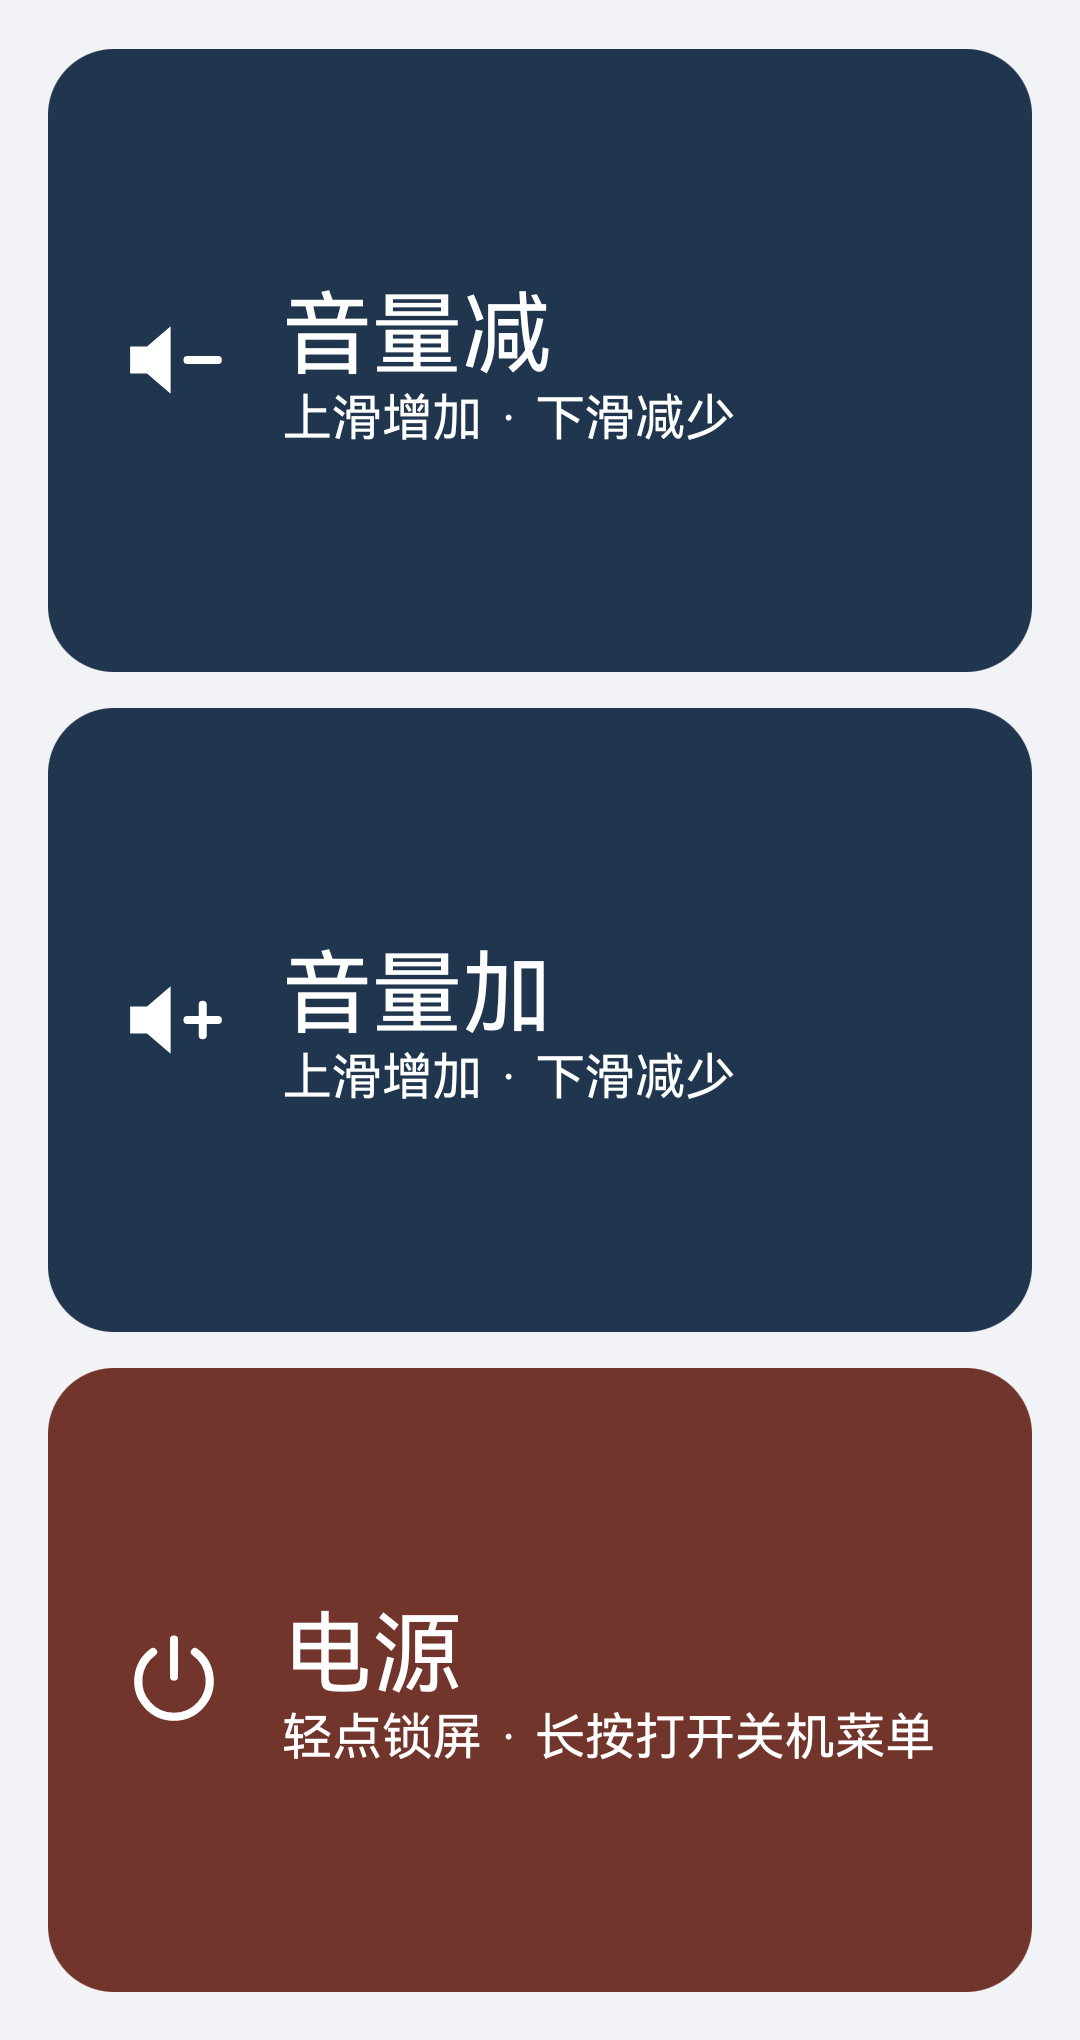
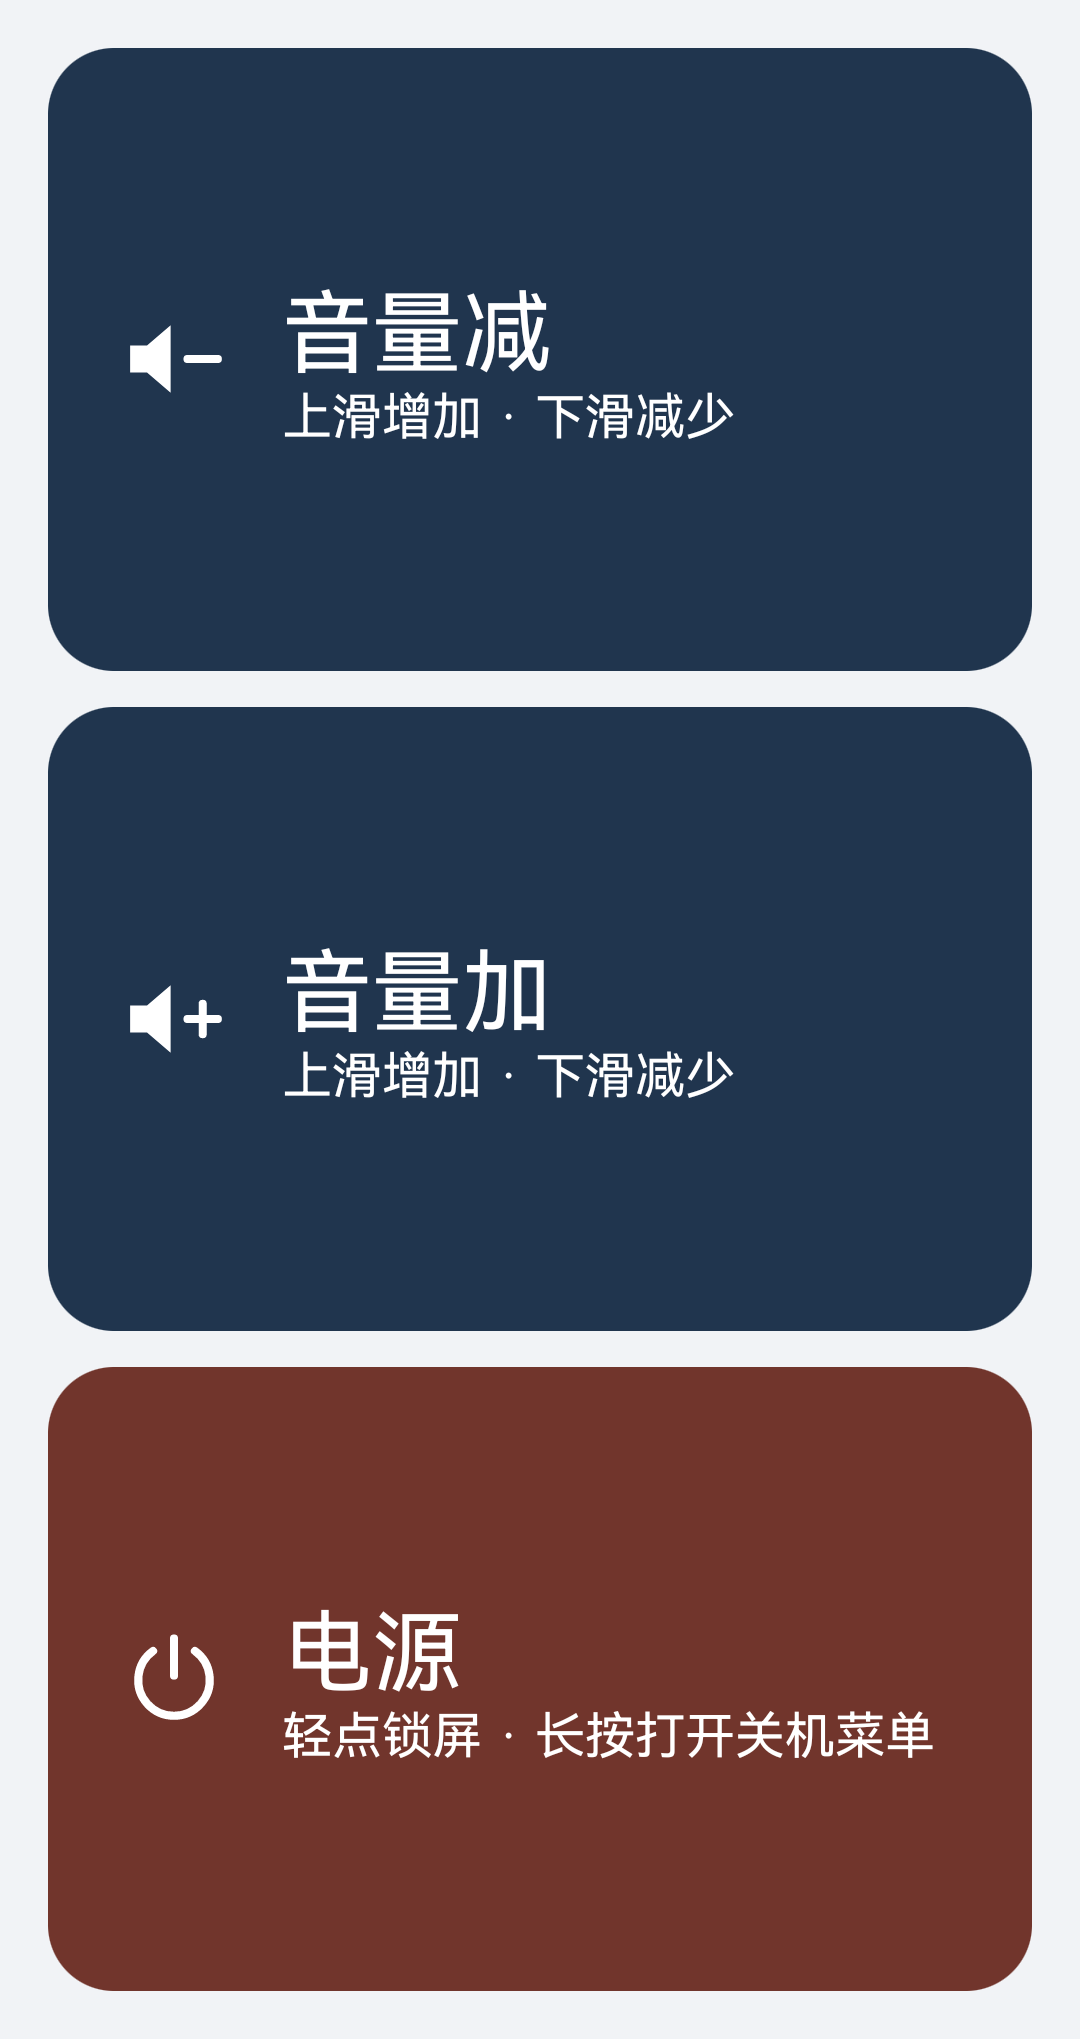
Show matching device screenshots for each README language

diff --git a/docs/readme/README.th.md b/docs/readme/README.th.md
@@ -17,7 +17,7 @@
 
 ## ภาพหน้าจอ
 
-<img src="../screenshots/mate20x.png" alt="หน้าจอภาษาจีนตัวย่อบน Huawei Mate 20 X แสดงปุ่มลดเสียง เพิ่มเสียง และปุ่มเปิด/ปิด" width="360">
+<img src="../screenshots/mate20x-th.png" alt="หน้าจอภาษาไทยบน Huawei Mate 20 X แสดงปุ่มลดเสียง เพิ่มเสียง และปุ่มเปิด/ปิด" width="360">
 
 ## ภาษาของแอป
 

diff --git a/docs/readme/README.ru.md b/docs/readme/README.ru.md
@@ -17,7 +17,7 @@
 
 ## Снимок экрана
 
-<img src="../screenshots/mate20x.png" alt="Интерфейс на упрощённом китайском на Huawei Mate 20 X с кнопками уменьшения громкости, увеличения громкости и питания" width="360">
+<img src="../screenshots/mate20x-ru.png" alt="Русский интерфейс на Huawei Mate 20 X с кнопками уменьшения громкости, увеличения громкости и питания" width="360">
 
 ## Язык приложения
 

diff --git a/docs/readme/README.ar.md b/docs/readme/README.ar.md
@@ -17,7 +17,7 @@
 
 ## لقطة الشاشة
 
-<img src="../screenshots/mate20x.png" alt="واجهة التطبيق بالصينية المبسّطة على Huawei Mate 20 X، وتظهر فيها أزرار خفض الصوت ورفع الصوت والطاقة" width="360">
+<img src="../screenshots/mate20x-ar.png" alt="واجهة التطبيق باللغة العربية على Huawei Mate 20 X، وتظهر فيها أزرار خفض الصوت ورفع الصوت والطاقة" width="360">
 
 ## لغة التطبيق
 

diff --git a/docs/readme/README.vi.md b/docs/readme/README.vi.md
@@ -17,7 +17,7 @@ Khi điện thoại đã tắt hẳn, ứng dụng không thể bật máy. Nế
 
 ## Ảnh chụp màn hình
 
-<img src="../screenshots/mate20x.png" alt="Giao diện tiếng Trung giản thể trên Huawei Mate 20 X với các nút giảm âm lượng, tăng âm lượng và nguồn" width="360">
+<img src="../screenshots/mate20x-vi.png" alt="Giao diện tiếng Việt trên Huawei Mate 20 X với các nút giảm âm lượng, tăng âm lượng và nguồn" width="360">
 
 ## Ngôn ngữ ứng dụng
 

diff --git a/docs/readme/README.es.md b/docs/readme/README.es.md
@@ -17,7 +17,7 @@ Si el teléfono está completamente apagado, la aplicación no puede encenderlo.
 
 ## Captura de pantalla
 
-<img src="../screenshots/mate20x.png" alt="Interfaz en chino simplificado en un Huawei Mate 20 X con los botones de bajar volumen, subir volumen y encendido" width="360">
+<img src="../screenshots/mate20x-es.png" alt="Interfaz en español en un Huawei Mate 20 X con los botones de bajar volumen, subir volumen y encendido" width="360">
 
 ## Idioma de la aplicación
 

diff --git a/docs/readme/README.fr.md b/docs/readme/README.fr.md
@@ -17,7 +17,7 @@ Lorsque le téléphone est complètement éteint, l’application ne peut pas le
 
 ## Capture d’écran
 
-<img src="../screenshots/mate20x.png" alt="Interface en chinois simplifié sur un Huawei Mate 20 X avec les boutons Volume −, Volume + et Marche/arrêt" width="360">
+<img src="../screenshots/mate20x-fr.png" alt="Interface en français sur un Huawei Mate 20 X avec les boutons Volume −, Volume + et Marche/arrêt" width="360">
 
 ## Langue de l’application
 

diff --git a/docs/readme/README.en.md b/docs/readme/README.en.md
@@ -17,7 +17,7 @@ Once the phone is completely powered off, the app cannot turn it on. If the phys
 
 ## Screenshot
 
-<img src="../screenshots/mate20x.png" alt="Virtual Keys on a Huawei Mate 20 X in Simplified Chinese, showing Volume Down, Volume Up, and Power" width="360">
+<img src="../screenshots/mate20x-en.png" alt="Virtual Keys in English on a Huawei Mate 20 X, showing Volume Down, Volume Up, and Power" width="360">
 
 ## App language
 

diff --git a/docs/readme/README.ja.md b/docs/readme/README.ja.md
@@ -17,7 +17,7 @@
 
 ## スクリーンショット
 
-<img src="../screenshots/mate20x.png" alt="Huawei Mate 20 X 上の簡体字中国語の画面。上から音量を下げる、音量を上げる、電源の順" width="360">
+<img src="../screenshots/mate20x-ja.png" alt="Huawei Mate 20 X 上の日本語画面。上から音量を下げる、音量を上げる、電源の順" width="360">
 
 ## アプリの表示言語
 

diff --git a/docs/readme/README.ko.md b/docs/readme/README.ko.md
@@ -17,7 +17,7 @@
 
 ## 실제 화면
 
-<img src="../screenshots/mate20x.png" alt="Huawei Mate 20 X의 중국어 간체 화면. 위에서부터 음량 낮추기, 음량 높이기, 전원 버튼" width="360">
+<img src="../screenshots/mate20x-ko.png" alt="Huawei Mate 20 X의 한국어 화면. 위에서부터 음량 낮추기, 음량 높이기, 전원 버튼" width="360">
 
 ## 앱 언어
 

diff --git a/docs/readme/README.zh-Hant.md b/docs/readme/README.zh-Hant.md
@@ -17,7 +17,7 @@
 
 ## 實機截圖
 
-<img src="../screenshots/mate20x.png" alt="華為 Mate 20 X 上的簡體中文介面，由上至下為音量減、音量加及電源" width="360">
+<img src="../screenshots/mate20x-zh-Hant.png" alt="華為 Mate 20 X 上的繁體中文介面，由上至下為音量減、音量加及電源" width="360">
 
 ## 應用程式語言
 
